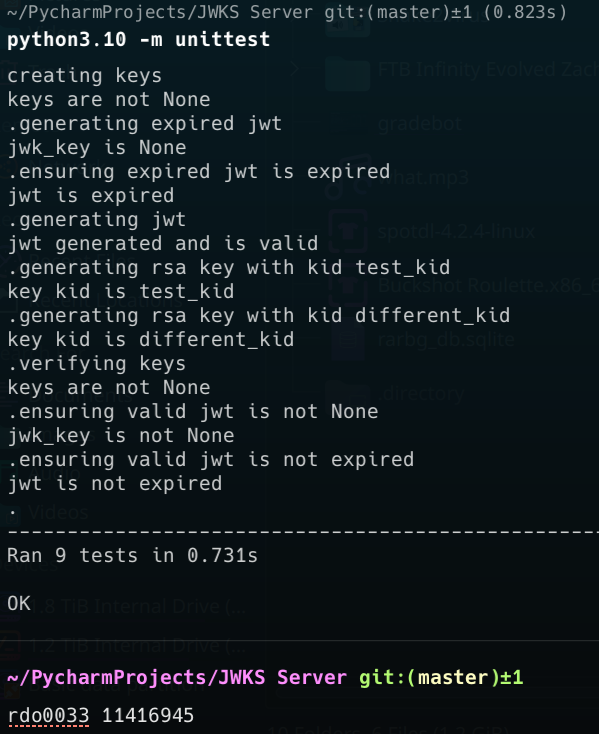
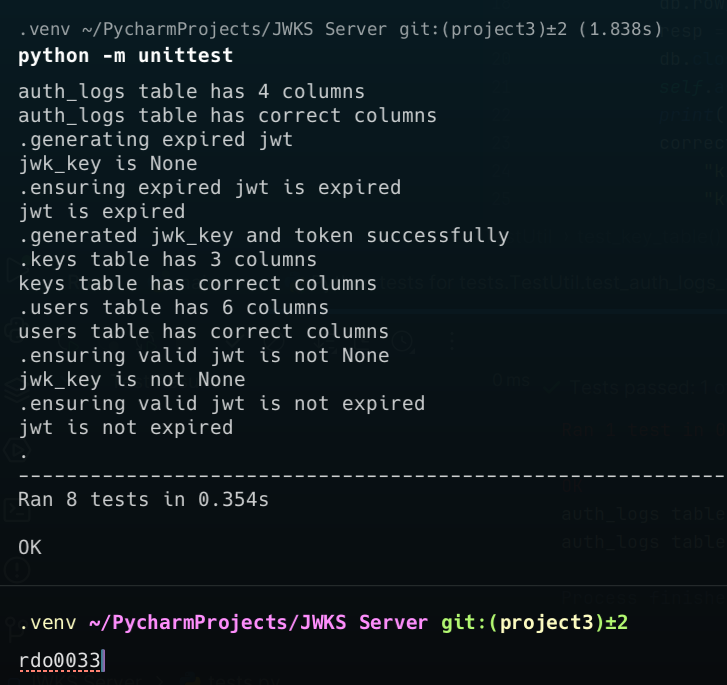
update unittests

diff --git a/tests.py b/tests.py
@@ -1,78 +1,95 @@
 import datetime
 import json
+import sqlite3
 import unittest
 
-from jwcrypto import jwk, jwt
-
-from util import init_keys, create_keys, generate_rsa_key, generate_jwt
+from util import generate_jwt_pair, AuthRequest
 
 
 class TestUtil(unittest.TestCase):
-    def test_init_keys(self):
-        public, private = init_keys()
-        print("verifying keys")
-        self.assertIsNotNone(public)
-        self.assertIsNotNone(private)
-        print("keys are not None")
+    def test_generate_jwk_pair(self):
+        jwk_key, token = generate_jwt_pair(AuthRequest(username="example_user", password="example_password"), False)
+        self.assertIsNotNone(jwk_key)
+        self.assertIsNotNone(token)
+        print("generated jwk_key and token successfully")
 
-    def test_create_keys(self):
-        public, private = create_keys()
-        print("creating keys")
-        self.assertIsNotNone(public)
-        self.assertIsNotNone(private)
-        print("keys are not None")
+    def test_key_table(self):
+        db = sqlite3.connect('totally_not_my_privateKeys.db')
+        db.row_factory = sqlite3.Row
+        resp = db.execute("PRAGMA TABLE_INFO(keys)").fetchall()
+        db.close()
+        self.assertTrue(len(resp), 3)
+        print("keys table has 3 columns")
+        correct = {
+            "kid": "INTEGER",
+            "key": "BLOB",
+            "exp": "INTEGER"
+        }
+        for i in resp:
+            self.assertIn(i['name'], correct)
+            self.assertEqual(i['type'], correct[i['name']])
+        print("keys table has correct columns")
 
-    def test_generate_rsa_key(self):
-        public, private = init_keys()
-        print("generating rsa key with kid test_kid")
-        jwk_key = generate_rsa_key(public, 'test_kid')
-        self.assertEqual(jwk_key.kid, 'test_kid')
-        print("key kid is test_kid")
+    def test_user_table(self):
+        db = sqlite3.connect('totally_not_my_privateKeys.db')
+        db.row_factory = sqlite3.Row
+        resp = db.execute("PRAGMA TABLE_INFO(users)").fetchall()
+        db.close()
+        self.assertTrue(len(resp), 6)
+        print("users table has 6 columns")
+        correct = {
+            "id": "INTEGER",
+            "username": "TEXT",
+            "password_hash": "TEXT",
+            "email": "TEXT",
+            "date_registered": "TIMESTAMP",
+            "last_login": "TIMESTAMP"
+        }
+        for i in resp:
+            self.assertIn(i['name'], correct)
+            self.assertEqual(i['type'], correct[i['name']])
+        print("users table has correct columns")
 
-    def test_generate_jwt(self):
-        public, private = init_keys()
-        print("generating jwt")
-        jwk_key, token = generate_jwt(public, private, False)
-        self.assertEqual(jwk_key.kid, json.loads(token.header)['kid'])
-        self.assertEqual(json.loads(token.claims)['sub'], 'example_user')
-        print("jwt generated and is valid")
-
-    def test_generate_rsa_key_different_inputs(self):
-        public, private = init_keys()
-        print("generating rsa key with kid different_kid")
-        jwk_key = generate_rsa_key(public, 'different_kid')
-        self.assertEqual(jwk_key.kid, 'different_kid')
-        print("key kid is different_kid")
+    def test_auth_logs_table(self):
+        db = sqlite3.connect('totally_not_my_privateKeys.db')
+        db.row_factory = sqlite3.Row
+        resp = db.execute("PRAGMA TABLE_INFO(auth_logs)").fetchall()
+        db.close()
+        self.assertTrue(len(resp), 3)
+        print("auth_logs table has 4 columns")
+        correct = {
+            "id": "INTEGER",
+            "request_ip": "TEXT",
+            "request_timestamp": "TIMESTAMP",
+            "user_id": "INTEGER"
+        }
+        for i in resp:
+            self.assertIn(i['name'], correct)
+            self.assertEqual(i['type'], correct[i['name']])
+        print("auth_logs table has correct columns")
 
     def test_expired_key_is_None(self):
-        public, private = init_keys()
         print("generating expired jwt")
-        jwk_key, token = generate_jwt(public, private, True)
+        jwk_key, token = generate_jwt_pair(AuthRequest(username="expired_user", password="expired_password"), True)
         self.assertIsNone(jwk_key)
         print("jwk_key is None")
 
     def test_expired_key_is_expired(self):
-        public, private = init_keys()
-        jwk_key: jwk.JWK
-        token: jwt.JWT
         print("ensuring expired jwt is expired")
-        jwk_key, token = generate_jwt(public, private, True)
+        jwk_key, token = generate_jwt_pair(AuthRequest(username="expired_user", password="expired_password"), True)
         self.assertTrue(json.loads(token.claims)["exp"] < datetime.datetime.now().timestamp())
         print("jwt is expired")
 
     def test_valid_key_is_not_expired(self):
-        public, private = init_keys()
-        jwk_key: jwk.JWK
-        token: jwt.JWT
         print("ensuring valid jwt is not expired")
-        jwk_key, token = generate_jwt(public, private, False)
+        jwk_key, token = generate_jwt_pair(AuthRequest(username="example_user", password="example_password"), False)
         self.assertTrue(json.loads(token.claims)["exp"] > datetime.datetime.now().timestamp())
         print("jwt is not expired")
 
     def test_valid_key_is_not_None(self):
-        public, private = init_keys()
         print("ensuring valid jwt is not None")
-        jwk_key, token = generate_jwt(public, private, False)
+        jwk_key, token = generate_jwt_pair(AuthRequest(username="example_user", password="example_password"), False)
+        self.assertTrue(json.loads(token.claims)["exp"] > datetime.datetime.now().timestamp())
         self.assertIsNotNone(jwk_key)
         print("jwk_key is not None")
 
